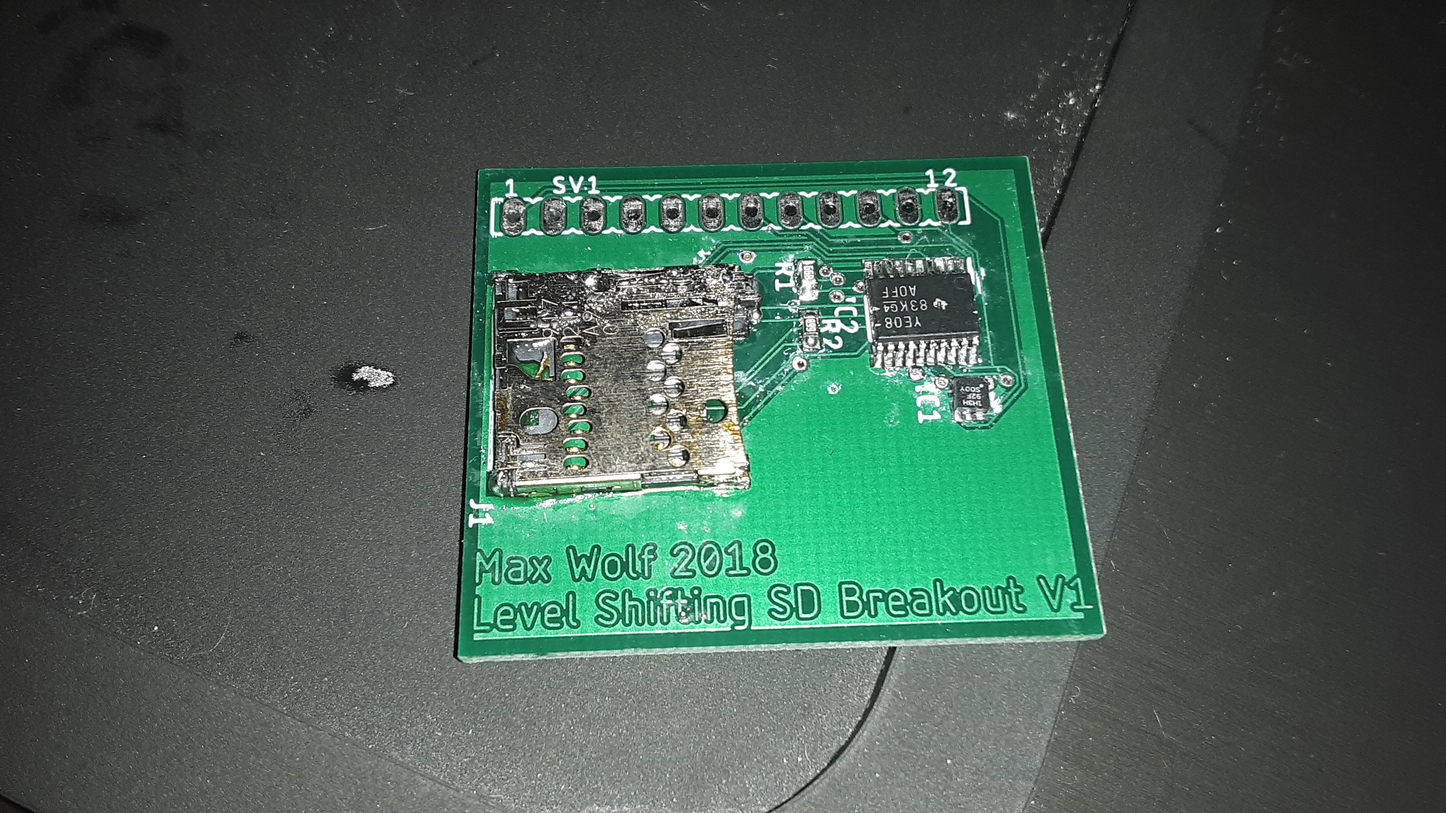
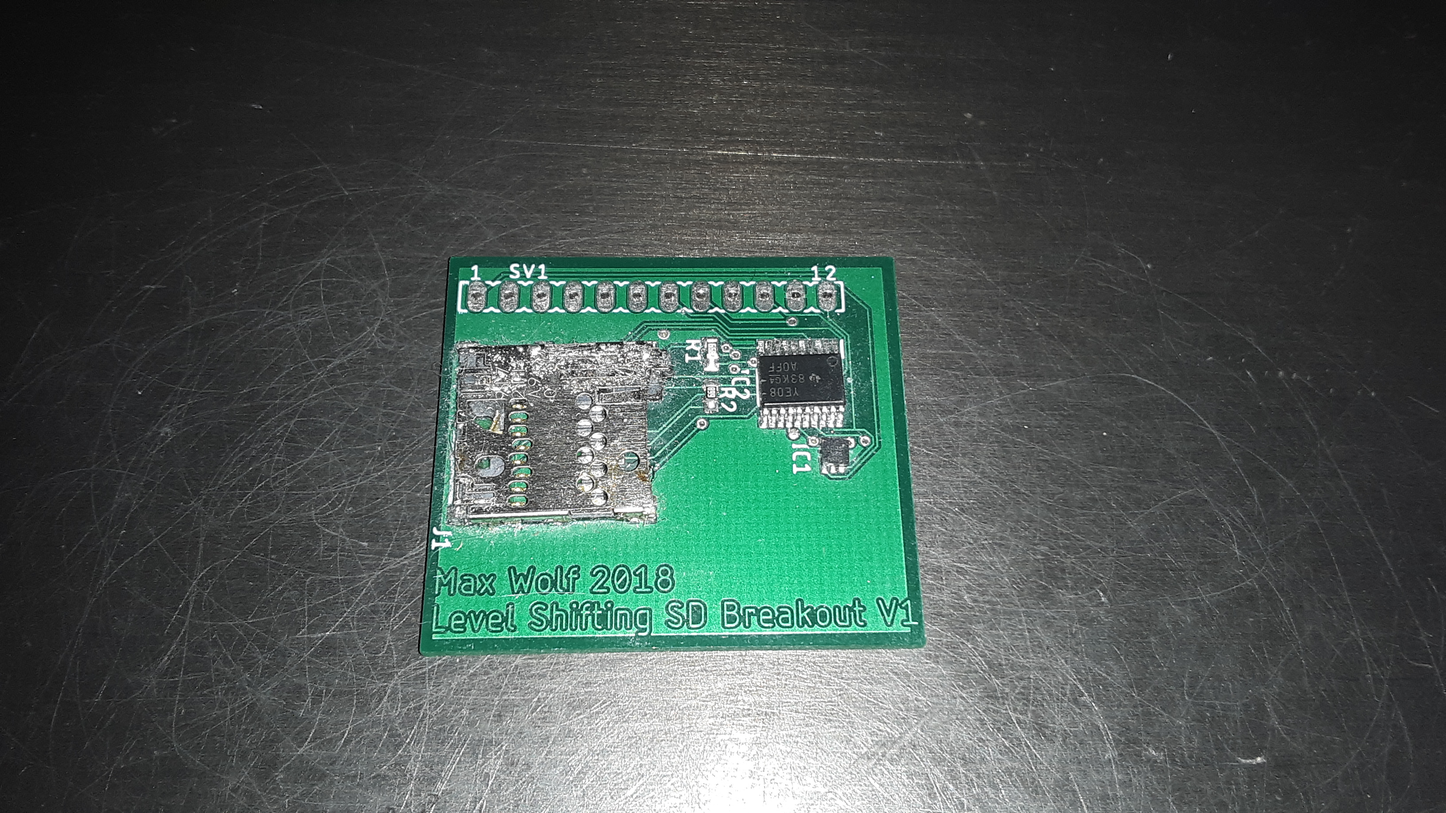
Updated SD breakout project

diff --git a/projects.html b/projects.html
@@ -23,9 +23,9 @@
 	<img src="img/bar_c_2.jpg" class="fit-image">
 	<p style="background-color: #FFFFFF; color: #000000;">
 		<a href = "railgun.html" style="color: #0000EE;">Railgun Final Project</a></br>
-		For the 2019-20 school year, Emmett Hart and I are building a small railgun. Due to quarantine/school being canceled we are having schedule issues, as we do not have access to any of 
-		the tools or materials at school. So far we have gotten some small but noticeable force out of the railgun (lengthening a projectile's coasting range on a track beyond that which could 
-		be achieved with the injector only) but we do not have the equipment to make it go any faster since our power supply is a jump starter that I found in the garage and not a big capacitor 
+		For the 2019-20 school year, Emmett Hart and I are building a small railgun. Due to quarantine/school being canceled we are having schedule issues, as we do not have access to any of
+		the tools or materials at school. So far we have gotten some small but noticeable force out of the railgun (lengthening a projectile's coasting range on a track beyond that which could
+		be achieved with the injector only) but we do not have the equipment to make it go any faster since our power supply is a jump starter that I found in the garage and not a big capacitor
 		bank.
 	</p>
 </div>
@@ -34,8 +34,8 @@
 	<img src="img/ezi65-1.jpg" class="fit-image">
 	<p style="background-color: #FFFFFF; color: #000000;">
 		<a href = "https://github.com/KJ7ILJ/rocket-datalogger" style="color: #0000EE;">EZ-I65 Datalogging Rocket</a></br>
-		This rocket was my final project for my Intermediate Engineering class during the 2018-19 school year. It carried several sensors mounted on a Raspberry Pi hat that I designed in 
-		Autodesk EAGLE. The launch of this rocket got me a junior level 1 HPR certification. My partner for the project was Emmett Hart. The rocket was named "Jean 1" in honor of a nuke dropped 
+		This rocket was my final project for my Intermediate Engineering class during the 2018-19 school year. It carried several sensors mounted on a Raspberry Pi hat that I designed in
+		Autodesk EAGLE. The launch of this rocket got me a junior level 1 HPR certification. My partner for the project was Emmett Hart. The rocket was named "Jean 1" in honor of a nuke dropped
 		on Thailand in our school's Model UN club.
 	</p>
 </div>
@@ -52,7 +52,7 @@
 	<img src="img/atmega_b0mcu_1.jpg" class="fit-image">
 	<p style="background-color: #FFFFFF; color: #000000;">
 		<a href = "https://github.com/KJ7ILJ/atmega328p-au-mc" style="color: #0000EE;">Miniature, Sub-Zero ATMEGA328P-AU Microcontroller</a></br>
-		A condensed microcontroller based on the ATMEGA328P-AU designed to work in sub-zero temperatures. Primary applications include areas where 
+		A condensed microcontroller based on the ATMEGA328P-AU designed to work in sub-zero temperatures. Primary applications include areas where
 		other microcontrollers could not function due to low temperatures or near-space ballooning.
 	</p>
 </div>
@@ -61,9 +61,8 @@
 	<img src="img/ls_sd_breakout1.jpg" class="fit-image">
 	<p style="background-color: #FFFFFF; color: #000000;">
 		<a href = "https://github.com/KJ7ILJ/levelshifting-sdbreakout" style="color: #0000EE;">Level Shifting Micro SD Breakout Board</a></br>
-		This was the second PCB that I made. It has a voltage regulator, 8 channel level shifter, and a micro SD slot. Unfortunately, I misinterpreted the datasheet and ended up with the 
-		SD slot facing backwards... Nonetheless all the connections were still in the right place. I'm only putting it here to document its creation. I apologize for the gross-looking mat and board -- 
-		this photo was taken just after I finished soldering everthing together, so there was flux and soot from the solder everywhere.
+		This was the second PCB that I made. It has a voltage regulator, 8 channel level shifter, and a micro SD slot. Unfortunately, I misinterpreted the datasheet and ended up with the
+		SD slot facing backwards... Nonetheless all the connections were still in the right place. I'm only putting it here to document its creation.
 	</p>
 </div>
 </br>
@@ -79,7 +78,7 @@
 	<img src="img/cc1125rhbt_breakout_1.jpg" class="fit-image">
 	<p style="background-color: #FFFFFF; color: #000000;">
 		<a href = "https://github.com/KJ7ILJ/cc1125rhbt-breakout" style="color: #0000EE;">CC1125RHBT Breakout Board</a></br>
-		A breakout board (my first 4-layer PCB) that matches the example schematic in the Texas Instruments CC1125RHBT's datasheet. It's basically a small digital radio that operates (in this setup) in 
+		A breakout board (my first 4-layer PCB) that matches the example schematic in the Texas Instruments CC1125RHBT's datasheet. It's basically a small digital radio that operates (in this setup) in
 		the 400MHz range. It has 50 ohm traces and a connector for an SMA antenna.
 	</p>
 </div>
